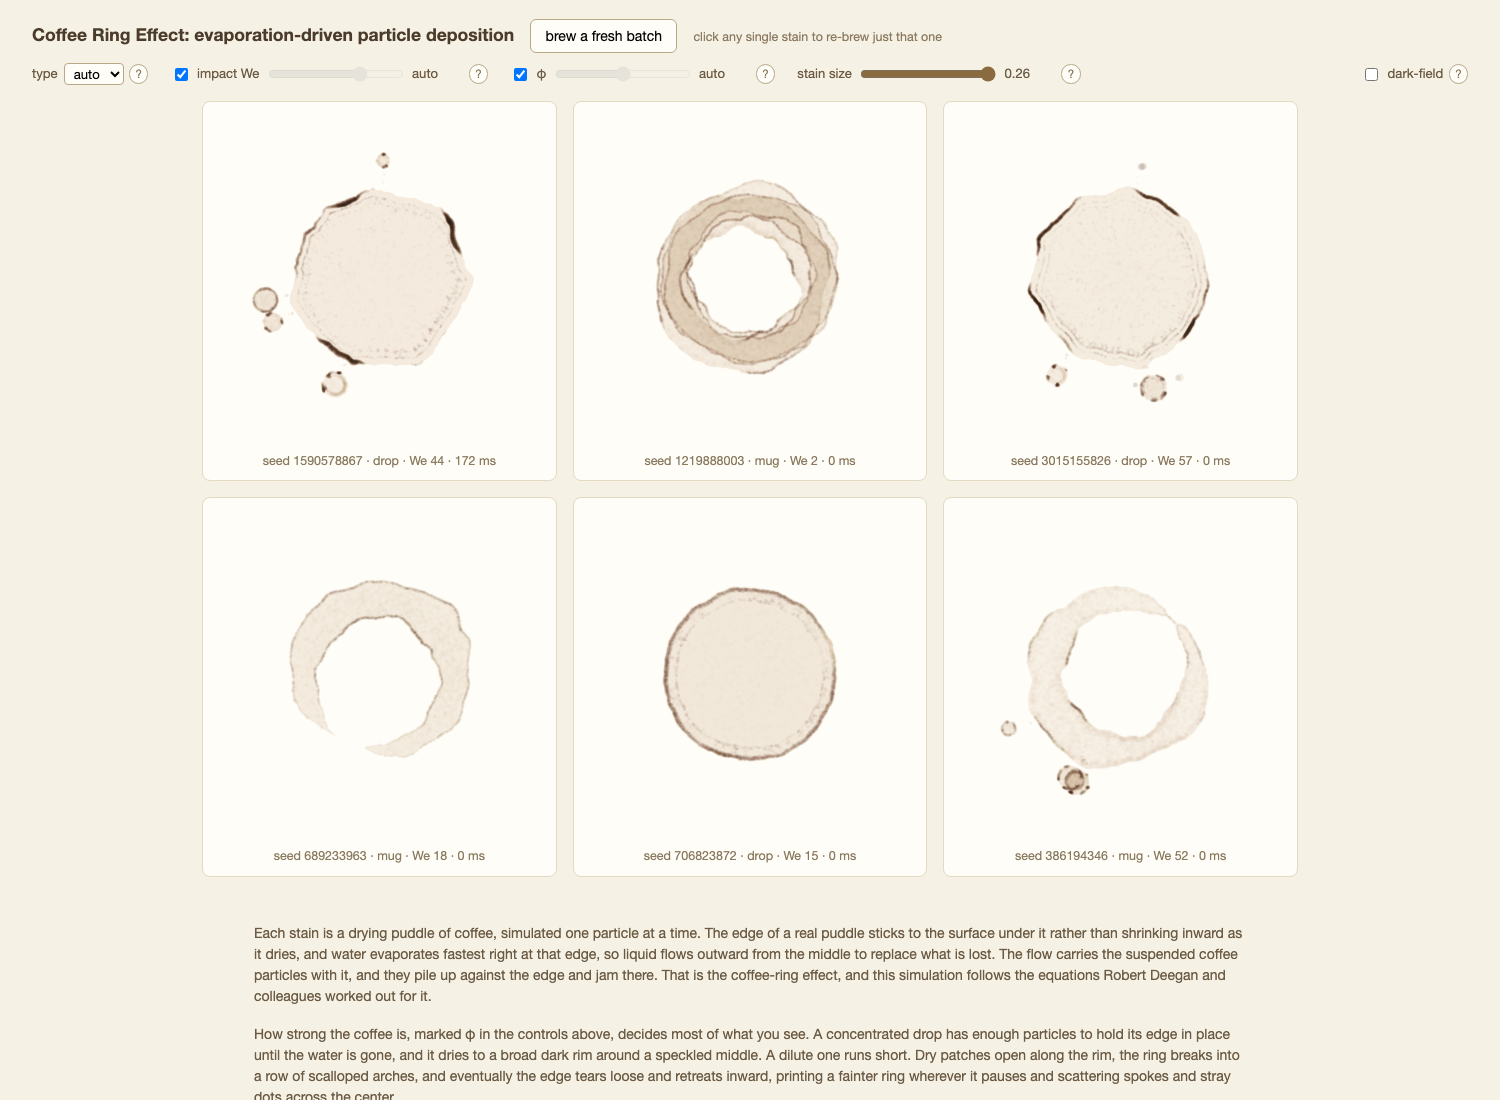
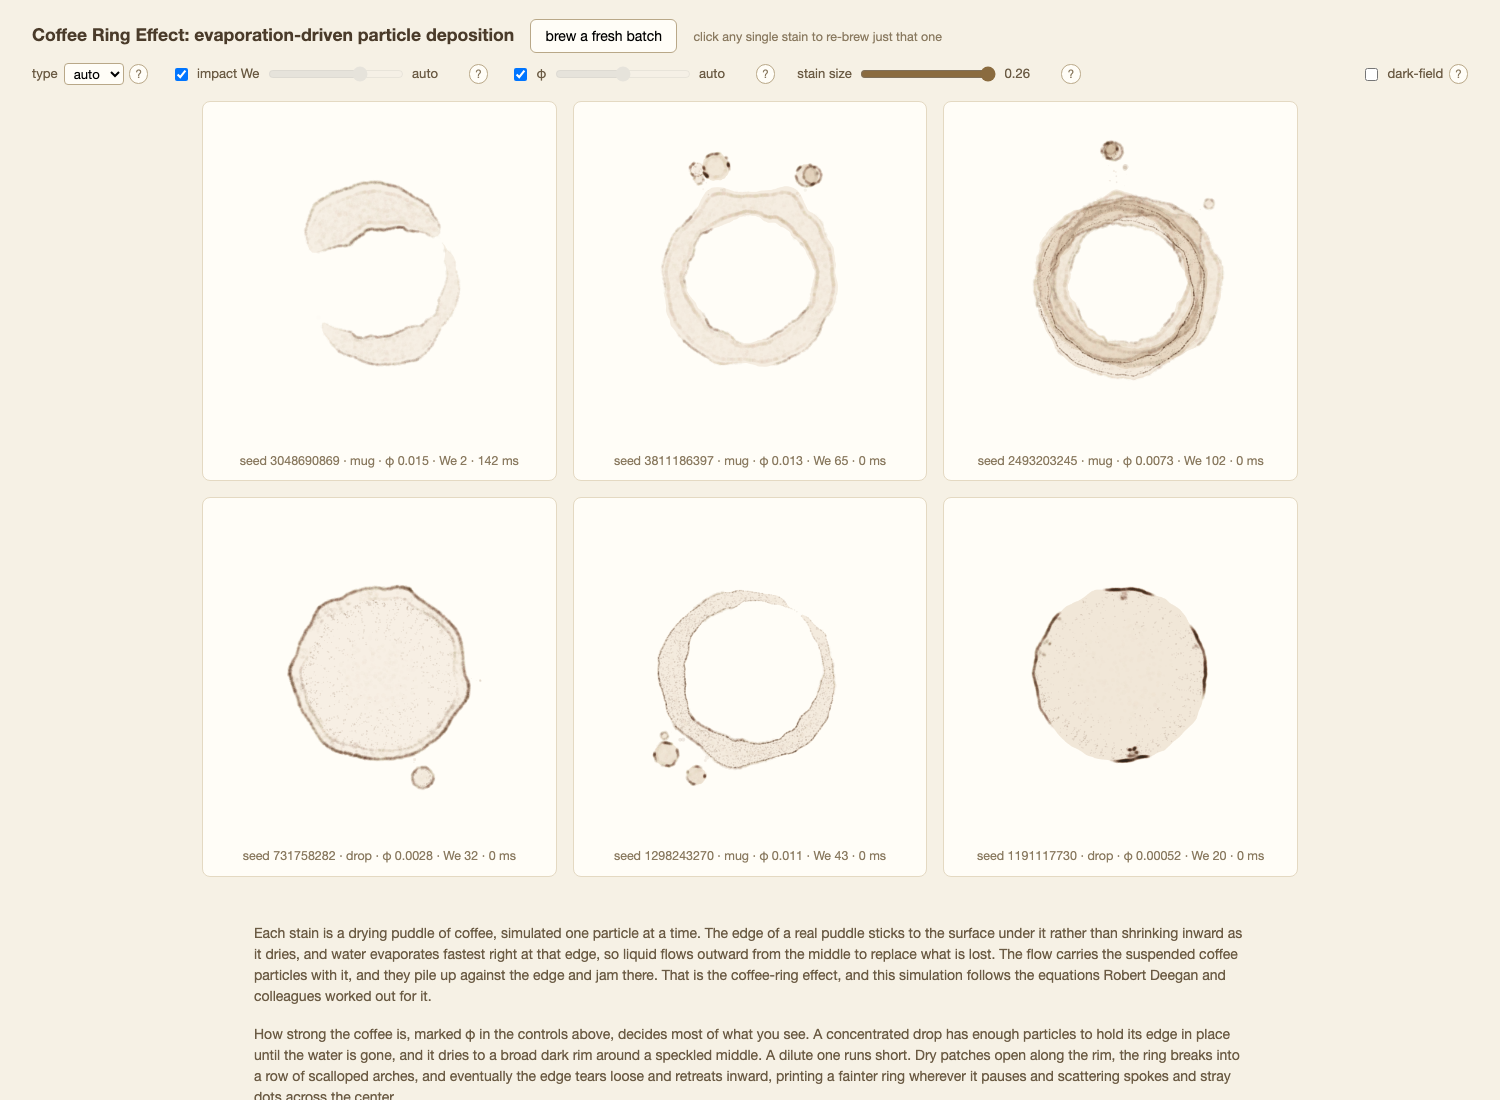
Guard grain, name its unit, and reshoot the grid it changed
Review findings on the grain knob:

- grain: NaN slipped past ?? and turned Math.max NaN; Infinity sized
  every splat infinite. scaleStain now requires a provided grain to be
  finite and positive (null and undefined still mean the default law).

- The docs called grain "device pixels". It is canvas user-space units
  -- CSS px on the usual DPR-scaled context, where multiplying by
  devicePixelRatio is exactly the mistake the old wording invited.

- "Ink-conserving either way" overclaimed: the compensation buys ink
  back with alpha, and alpha stops at 1, so grain much finer than the
  default law runs out of headroom and paints lighter. The README and
  module header now say so; the INK_LAWS comment always did.

- docs/demo-grid.png predated the speck-floor fix in this branch, which
  changes default-path rendering wherever the floor bites (all six demo
  tiles). Reshot against the current code: mug rings, a crescent, an
  overlap, splashed drops, one dilute blob too weak to ring.

diff --git a/src/stain.js b/src/stain.js
@@ -650,17 +650,21 @@ const INK_LAWS = {
   droplet: (alpha) => alpha,
 };
 
-// grain is a fleck size in device pixels, where every other length crossing
-// this module is a fraction of the stain's own radius. That break is
-// deliberate: the case it exists for — flecks that hold one size while the
-// stains carrying them change size, the way marks on a real desk do — has no
+// grain is a fleck size in canvas user-space units — the px the ctx draws in,
+// CSS px on a DPR-normalized context — where every other length crossing this
+// module is a fraction of the stain's own radius. That break is deliberate:
+// the case it exists for — flecks that hold one size while the stains
+// carrying them change size, the way marks on a real desk do — has no
 // expression as a fraction of a radius that is itself the thing varying.
 export function scaleStain({ splats, washes }, radius, { grain } = {}) {
-  // ctx.arc silently returns on non-finite input, so a bad radius would not
-  // crash — it would paint nothing, invisibly. Every path to pixels funnels
-  // through here, which makes this the one door worth locking.
+  // ctx.arc silently returns on non-finite input, so a bad radius or grain
+  // would not crash — it would paint nothing, invisibly. Every path to pixels
+  // funnels through here, which makes this the one door worth locking.
   if (!(Number.isFinite(radius) && radius > 0)) {
     throw new RangeError(`radius must be finite and positive, got ${radius}`);
+  }
+  if (grain != null && !(Number.isFinite(grain) && grain > 0)) {
+    throw new RangeError(`grain must be finite and positive, got ${grain}`);
   }
   const scalePoints = (pts) => pts.map((p) => ({ x: p.x * radius, y: p.y * radius }));
   const grainDefault = Math.max(0.8, radius * 0.016);

diff --git a/src/coffee-stains.js b/src/coffee-stains.js
@@ -31,14 +31,18 @@
 //              tracers even though its footprint is small.
 //   phi        pigment — how strong the coffee is. This is the knob for a
 //              darker, broader, or sparser stain.
-//   grain      fleck size in device pixels — how coarsely the pigment lands.
-//              The one knob here that belongs to painting rather than to the
+//   grain      fleck size in canvas units — how coarsely the pigment lands.
+//              The unit is whatever the ctx draws in (CSS px on the usual
+//              DPR-scaled context: do not multiply by devicePixelRatio). The
+//              one knob here that belongs to painting rather than to the
 //              stain: paintStains takes it, createStain never sees it. Left
 //              alone it scales with the stain, so painting one at two sizes
 //              is a pure zoom; pin it and the flecks hold their size while
-//              the footprint changes, the way marks on a real desk do. Ink
-//              survives either setting — coarser flecks paint proportionally
-//              fainter — so it is a texture knob, not a weight knob.
+//              the footprint changes, the way marks on a real desk do.
+//              Coarser flecks paint proportionally fainter, so the ink
+//              survives — until the compensation saturates: grain much finer
+//              than the default has no alpha headroom above 1 to spend, and
+//              paints lighter. A texture knob, not a weight knob.
 // particles and grain are the pair worth keeping straight: particles is how
 // finely the drying was sampled, grain is how coarsely the result gets
 // painted. More particles buys structure; finer grain only draws the

diff --git a/test/grain.test.js b/test/grain.test.js
@@ -187,3 +187,19 @@ test('a placement picks its own grain over the one the call set', () => {
     relClose(inherited[i], 6 * (u.rInk ?? u.r), 1e-12, `splat ${i} under the call's grain`);
   });
 });
+
+// grain slips past ?? as NaN and past Math.max as anything: without a door,
+// grain: NaN sizes every splat NaN and ctx.arc silently draws nothing.
+test('a provided grain must be finite and positive', () => {
+  const stain = createStain(dropletSpec);
+  for (const bad of [NaN, Infinity, 0, -1.3]) {
+    assert.throws(
+      () => scaleStain(stain, 100, { grain: bad }),
+      /grain/,
+      `grain ${bad} was accepted`,
+    );
+  }
+  // null and undefined both mean "use the default law".
+  assert.ok(scaleStain(stain, 100, { grain: null }).splats.length > 0);
+  assert.ok(scaleStain(stain, 100, {}).splats.length > 0);
+});

diff --git a/README.md b/README.md
@@ -20,7 +20,7 @@ paintStains(ctx, [
 
 `createStain` runs the simulation and returns plain serializable data in units of the stain's own radius — cache it, ship it as JSON, paint it at any size. `paintStains` places it: array order, one save/restore per placement, `opacity` multiplying whatever alpha the context already carries, multiply blend unless you pass `{ composite }`, and `grain` per call or per placement.
 
-Knobs: `type` ('drop' or 'mug'), `phi` (concentration — low gives sparse spoked interiors, high gives broad rims), `splashEnergy` (Weber-number stand-in; high values finger and splatter), `particles` (resolution, not ink), and at paint time `grain` (fleck size in px; ink-conserving, so it retextures without reweighting). A droplet is not a third type: it is a small `'drop'` with few particles and no splash. See the module header for the rest.
+Knobs: `type` ('drop' or 'mug'), `phi` (concentration — low gives sparse spoked interiors, high gives broad rims), `splashEnergy` (Weber-number stand-in; high values finger and splatter), `particles` (resolution, not ink), and at paint time `grain` (fleck size in canvas units — CSS px on the usual DPR-scaled context; ink-conserving until the compensation saturates, so grain much finer than the default paints lighter). A droplet is not a third type: it is a small `'drop'` with few particles and no splash. See the module header for the rest.
 
 Two ways to get pixels, with opposite bargains:
 
